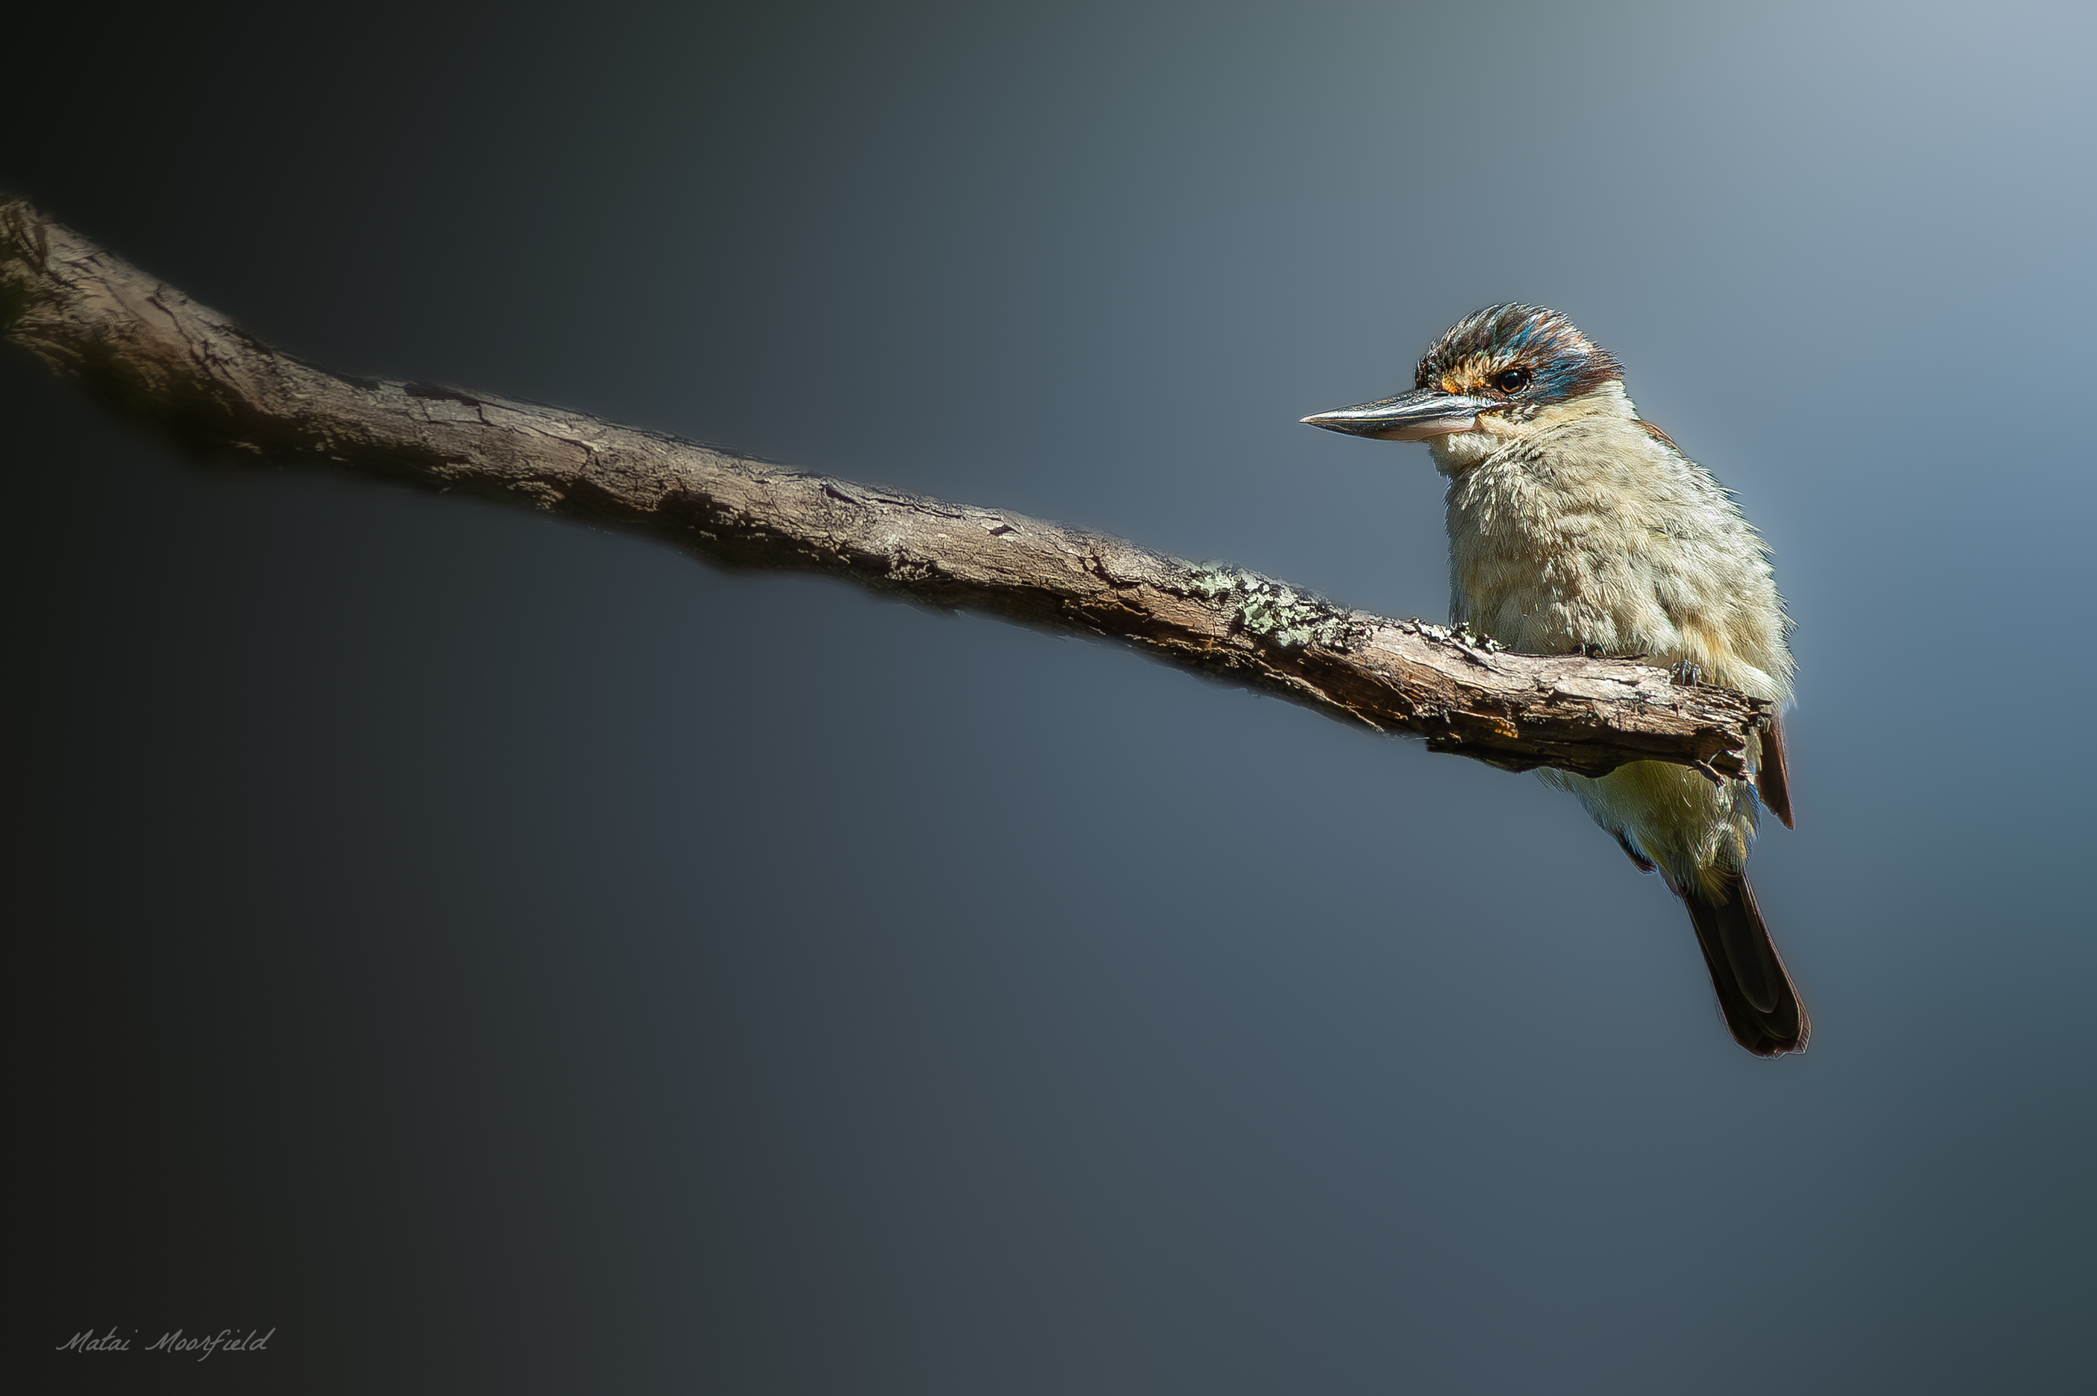
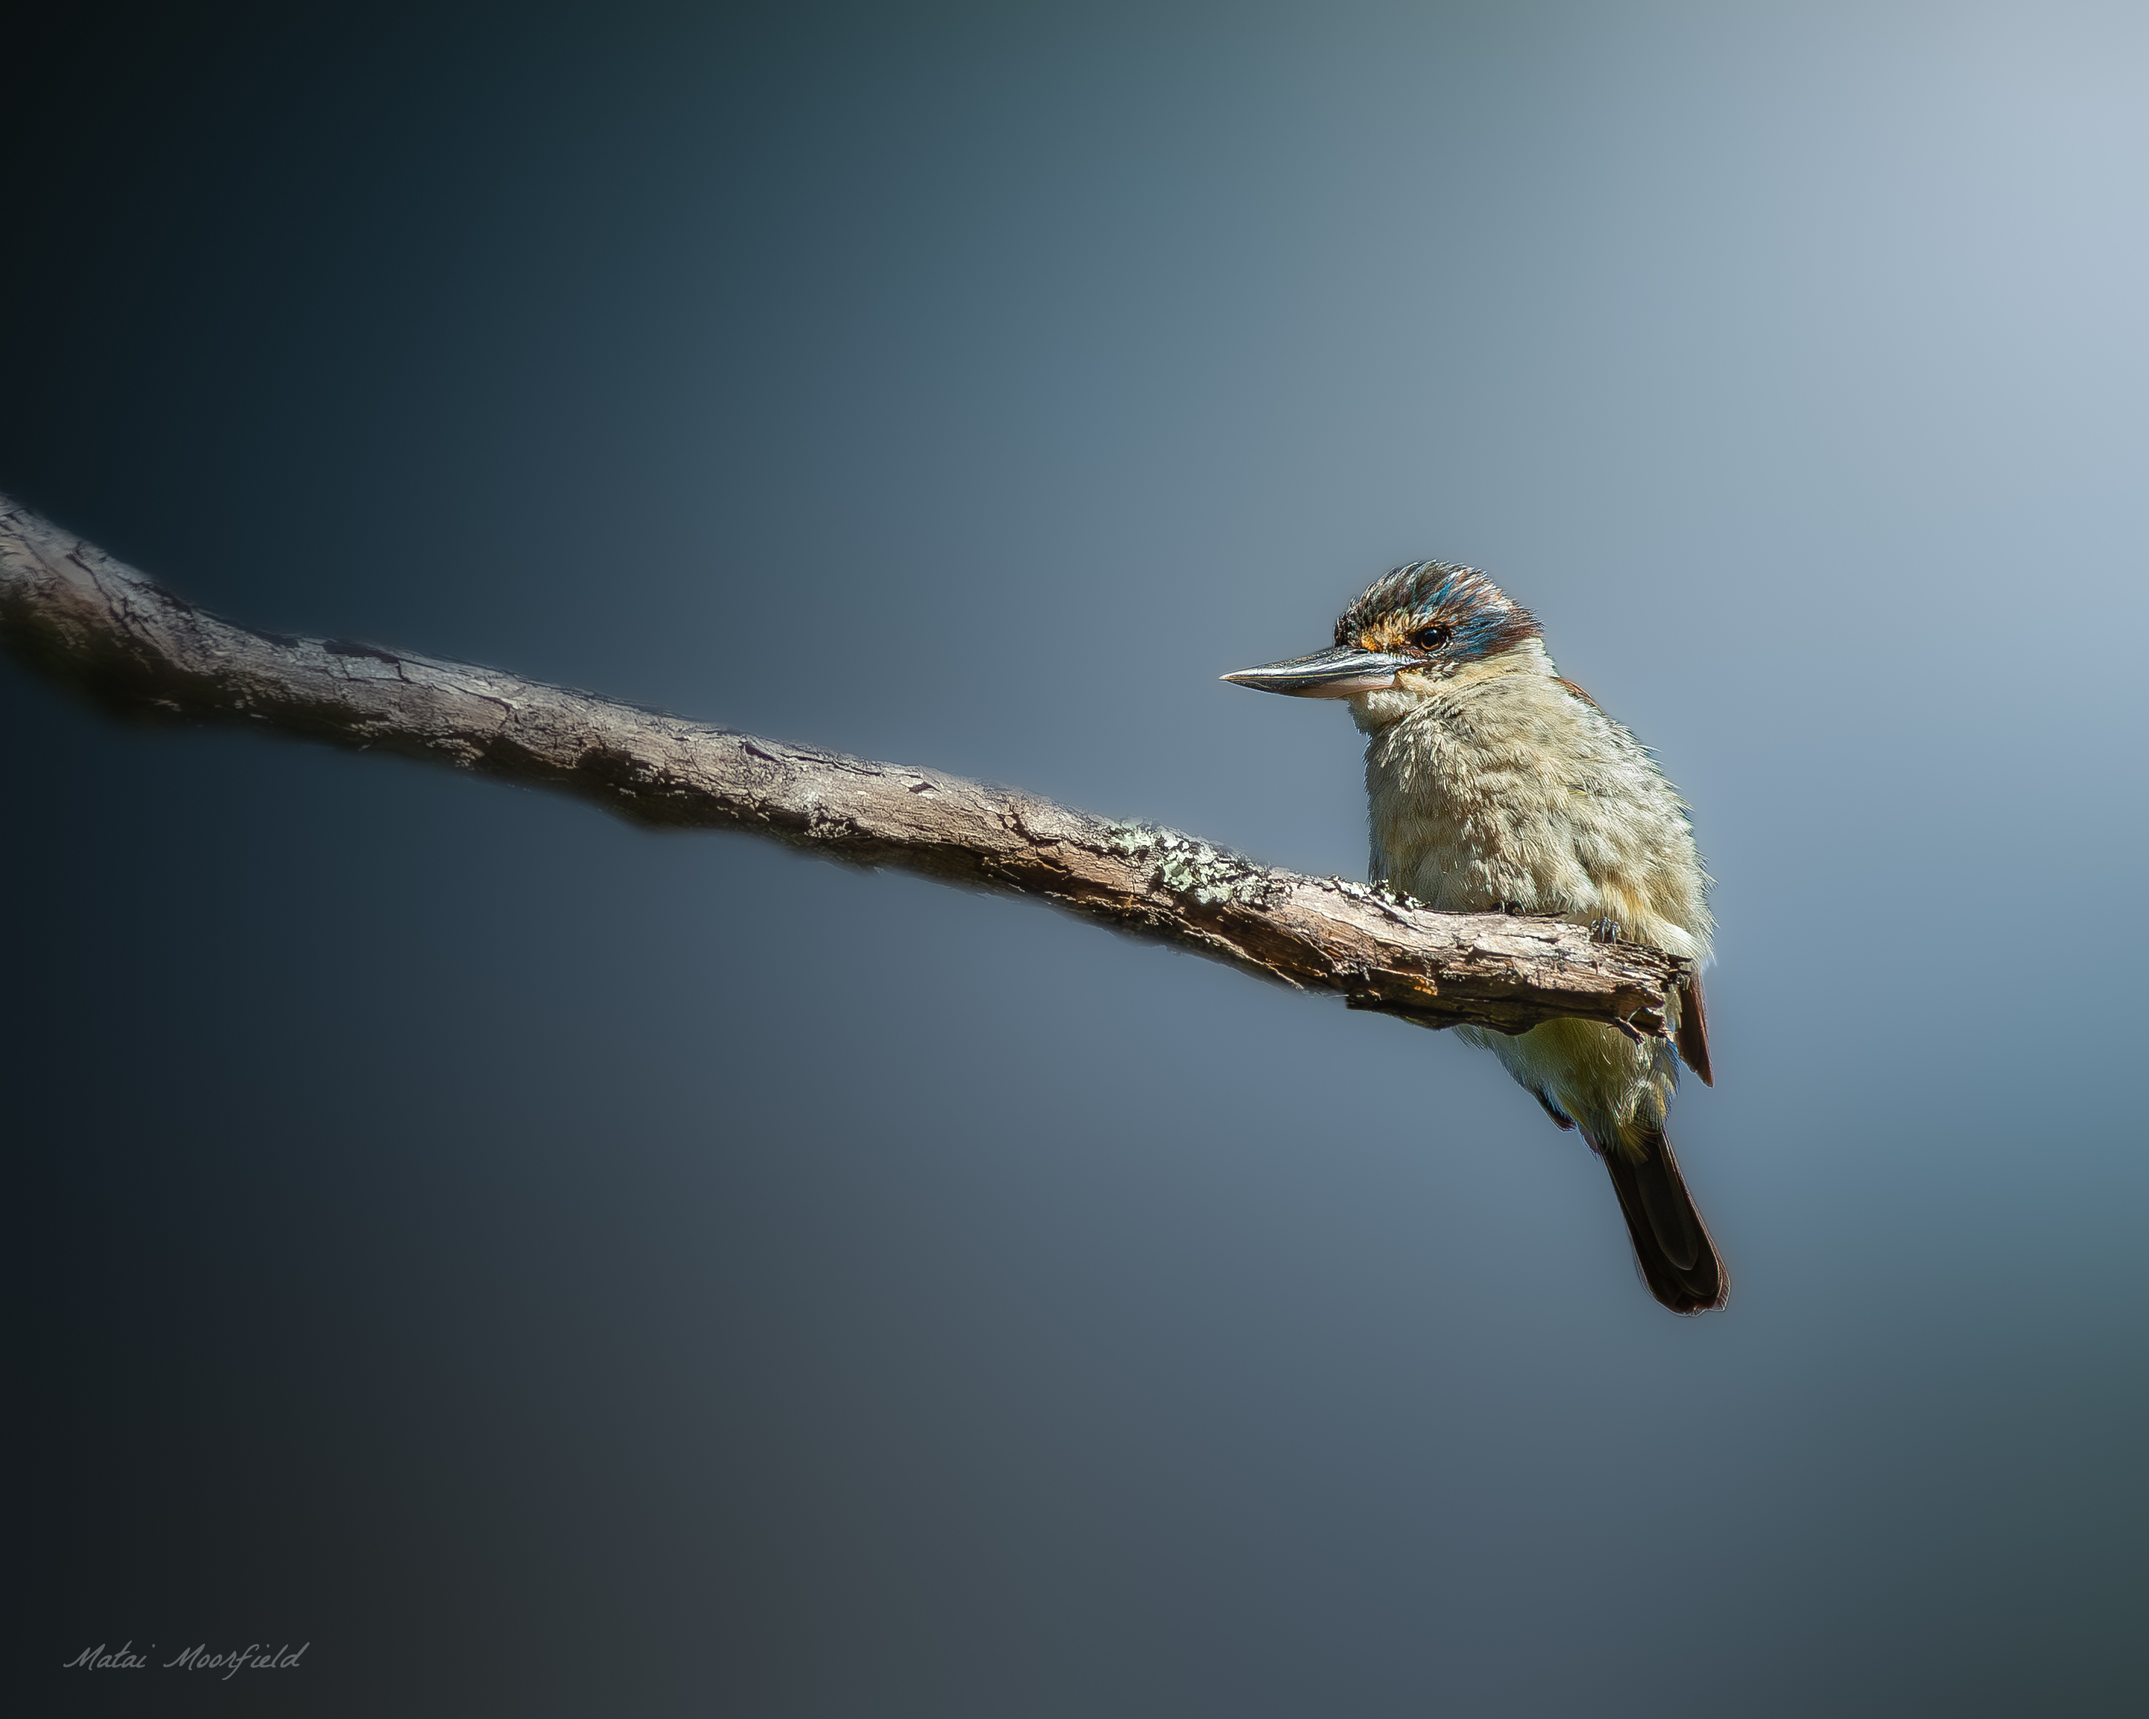
kindfisher

diff --git a/index.html b/index.html
@@ -79,10 +79,8 @@
                         itemprop="contentUrl" title="Endangered Pied Shags on a branch bird photo" />
                     <img src="Images/Lorikeet 1.jpg" alt="Australian Rainbow Lorikeet black background  bird photo"
                         itemprop="contentUrl" title="Australian Rainbow Lorikeet bird photo" />
-                    <img src="Images/Blue Duck 2.jpg"
-                        alt="Native and endangered Blue Duck/Whio shaking water off its head bird photo"
-                        itemprop="contentUrl"
-                        title="Native and endangered Blue Duck/Whio shaking water off its head bird photo" />
+                    <img src="Images/Kingfisher.jpg" alt="Minimalatic kindfigher on a branch" itemprop="contentUrl"
+                        title="Minimalatic kindfigher on a branch" />
                     <img src="Images/Gannet 2.jpg" alt="Australian Gannet hunting for fish bird photo"
                         itemprop="contentUrl" title="Australian Gannet hunting for fish bird photo" />
                     <img src="Images/Fine art/Pied shag.jpg"

diff --git a/other/index.html b/other/index.html
@@ -77,9 +77,6 @@
                 <div class="column">
                     <img src="../Images/Abstract/Hawk.jpg" alt="Hawk bird flying close to the moon photo"
                         itemprop="contentUrl" title="Hawk bird flying close to the moon photo" />
-                        <img src="../Images/Kingfisher.jpg" alt="Minimalatic kindfigher on a branch"
-                        itemprop="contentUrl" title="Hawk bird flying close to the moon photo" />
-
                 </div>
                 <div class="column">
                     <img src="../Images/Abstract/Swallow.jpg"
